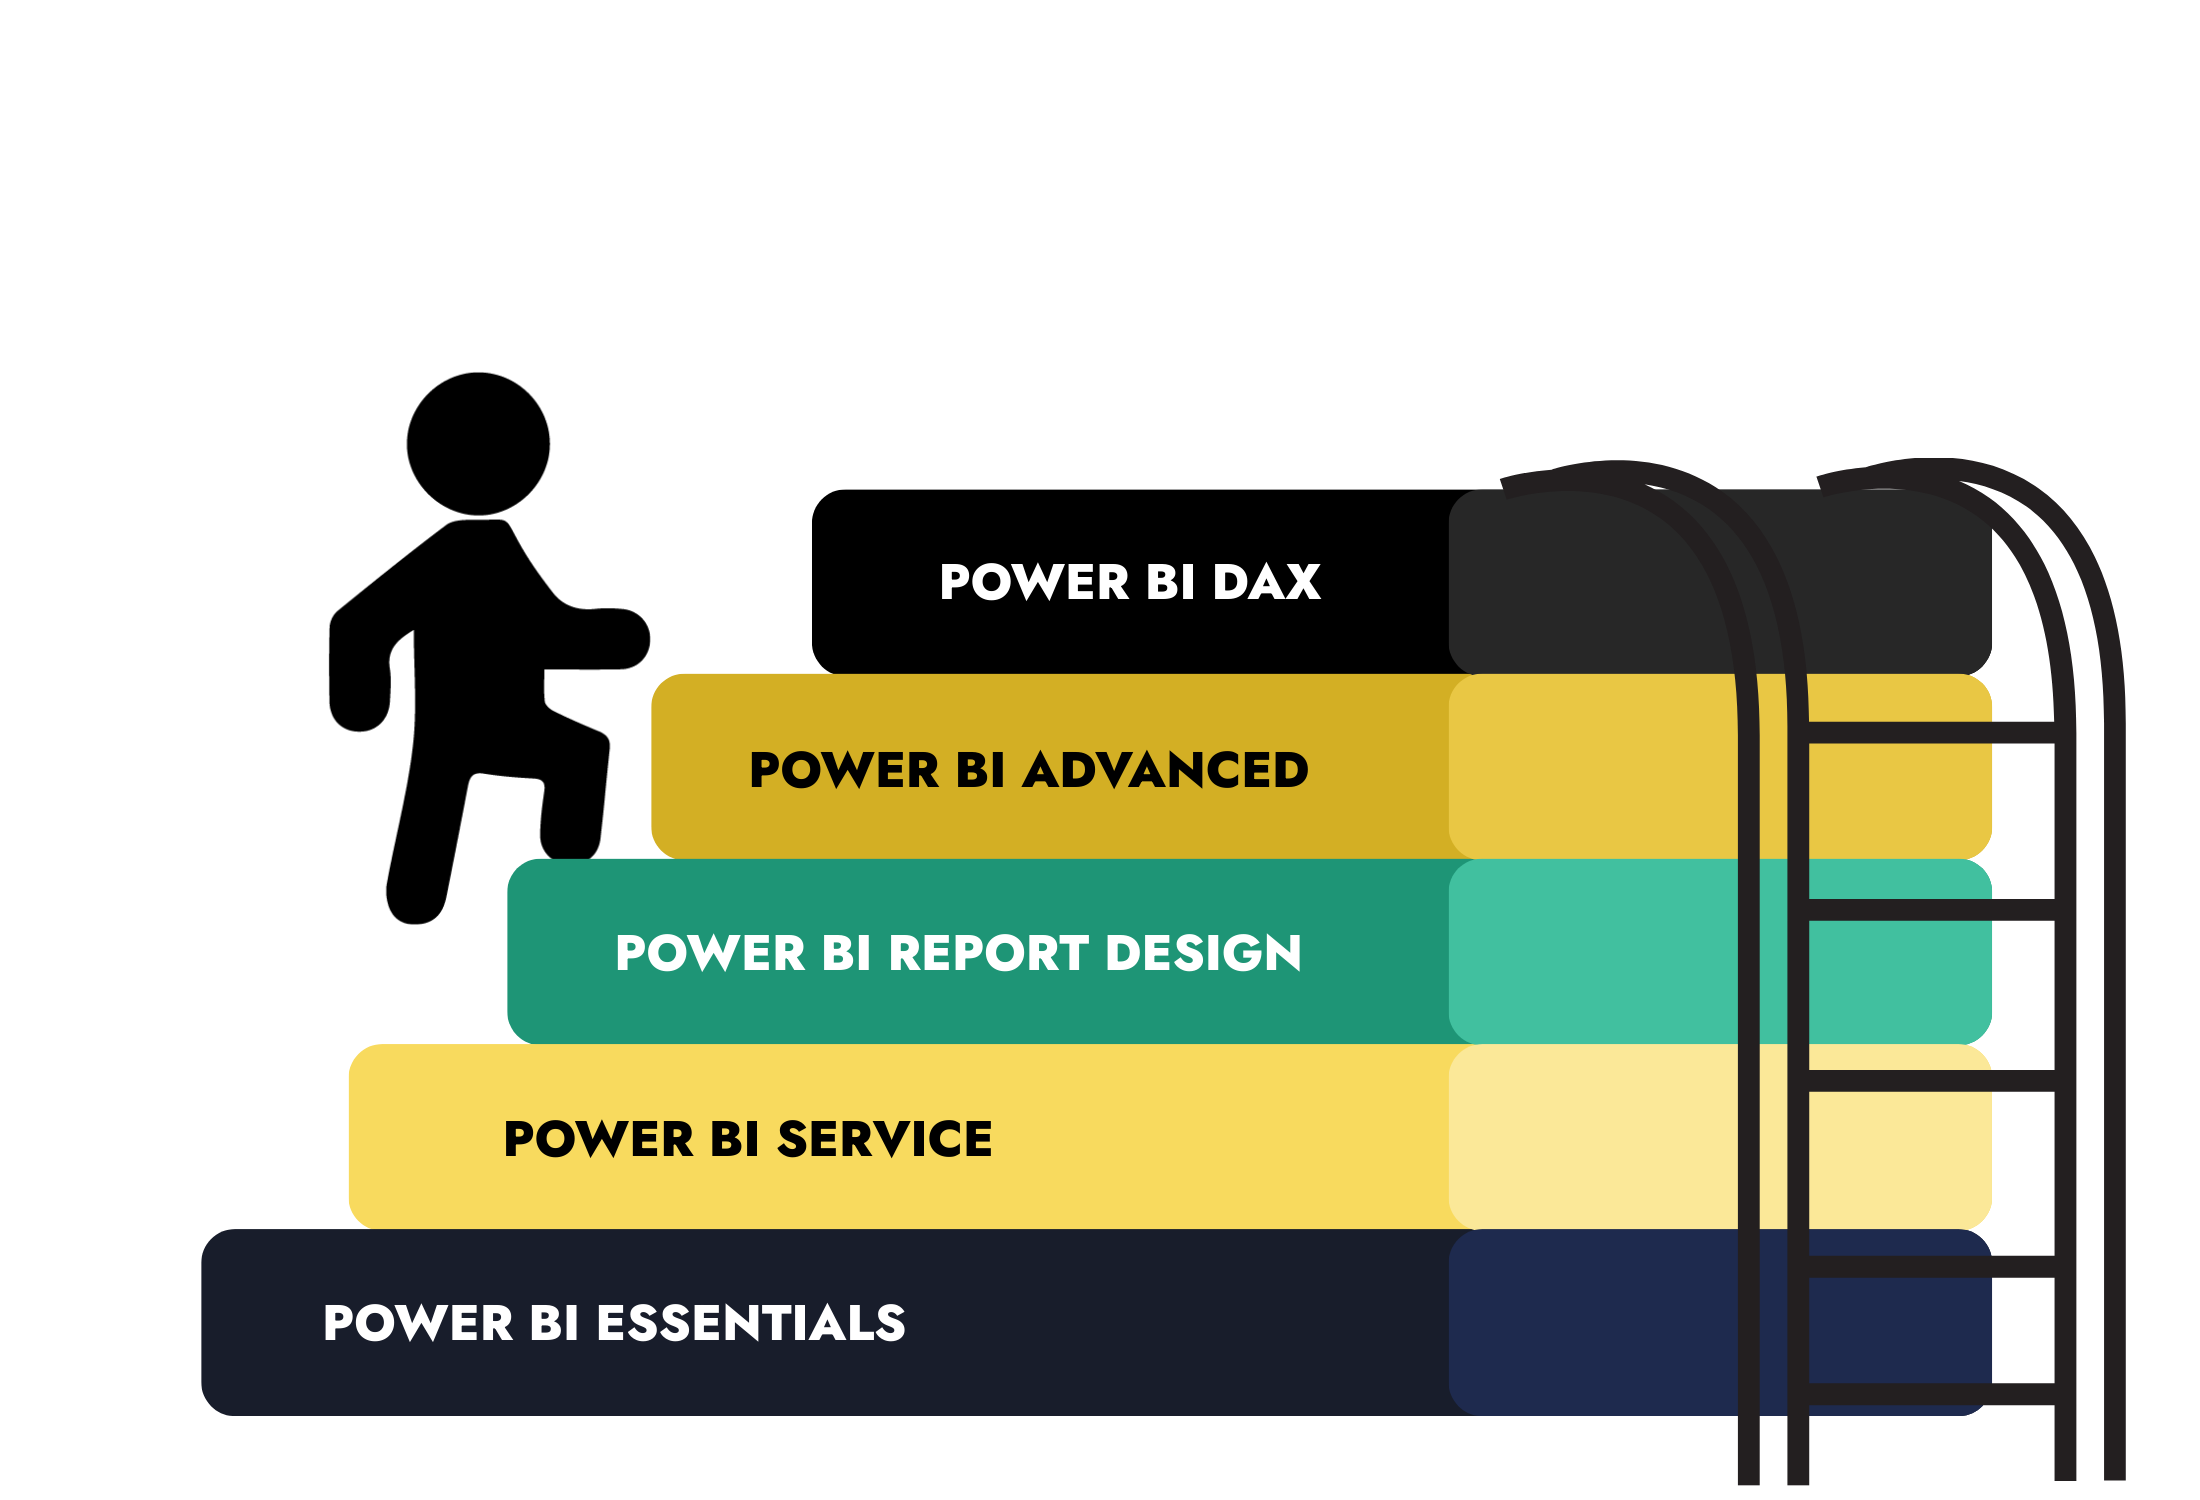
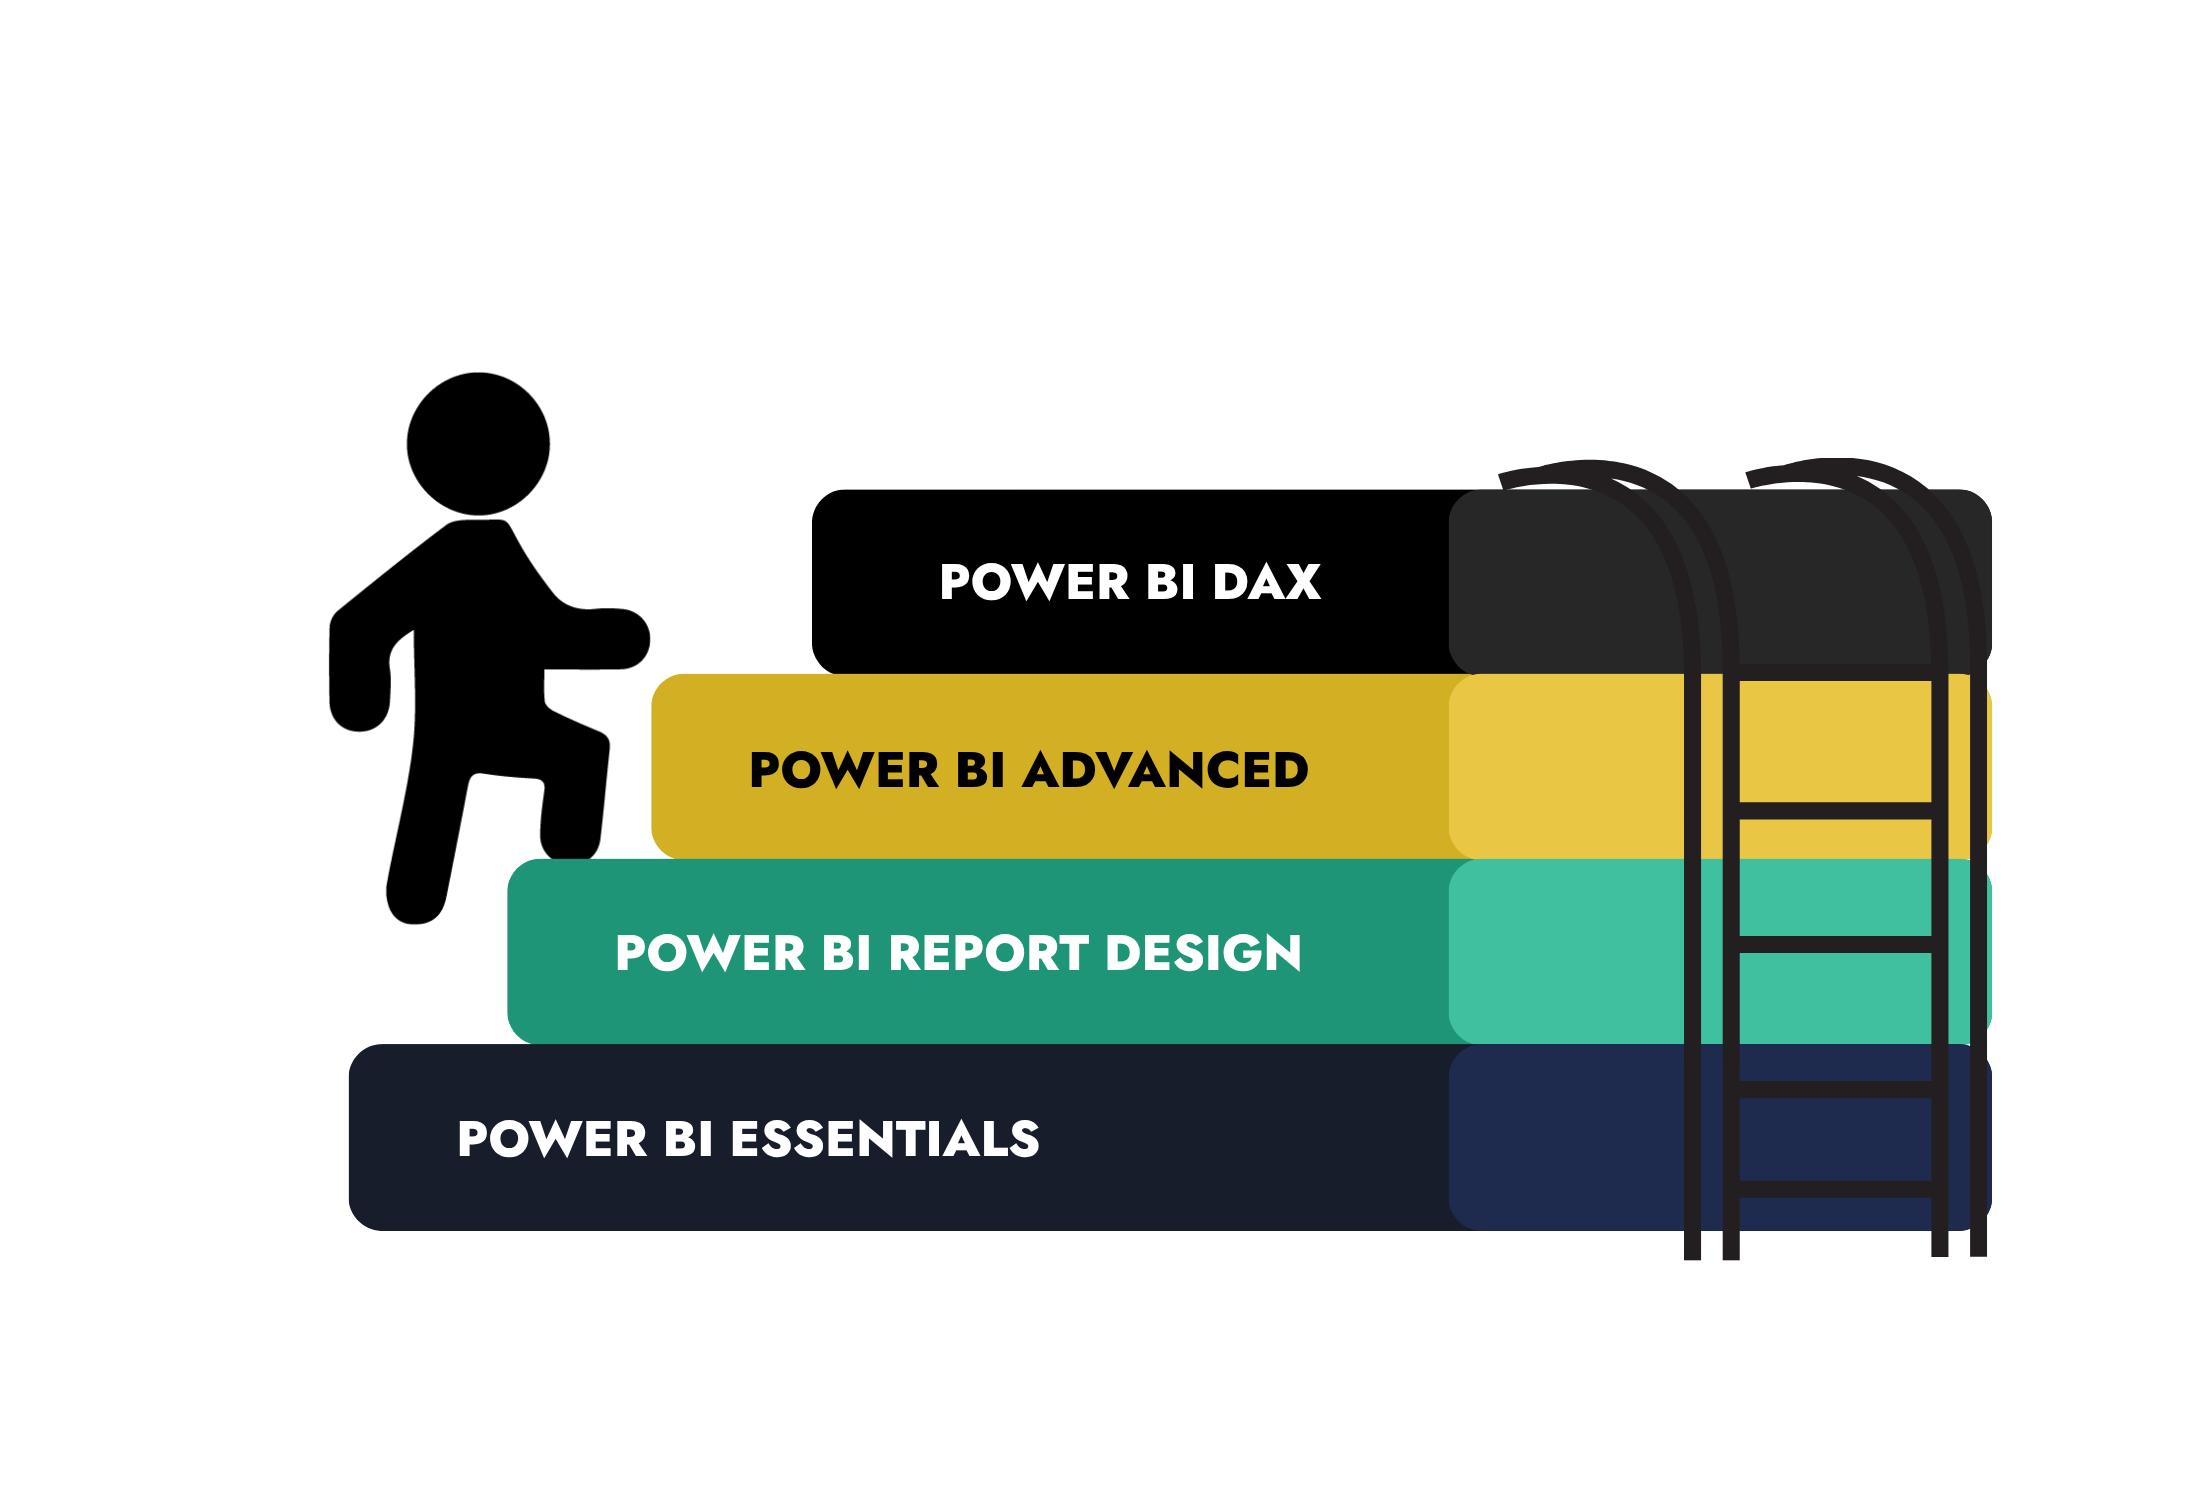
removed "Power BI Service"

Changed region(s): [[0.0927, 0.3067, 0.9891, 1.0]]

diff --git a/app/api/generate-message/route.ts b/app/api/generate-message/route.ts
@@ -19,12 +19,11 @@ export async function POST(request: Request) {
           role: "system",
           content: `You are a Power BI expert. The following courses are available:
           - Power BI Essentials
-          - Power BI Service
           - Power BI Report Design
           - Power BI Advanced
           - Power BI DAX Essentials
 
-          The user's current position will be shown on a visual ladder with 5 steps, each labeled with one of the above courses. The image highlights the user's recommended course as their current step, with higher steps representing more advanced expertise. The ladder visually shows progression from Essentials (bottom step 1) to DAX Essentials (top step 5).
+          The user's current position will be shown on a visual ladder with 4 steps, each labeled with one of the above courses. The image highlights the user's recommended course as their current step, with higher steps representing more advanced expertise. The ladder visually shows progression from Essentials (bottom step 1) to DAX Essentials (top step 4).
 
           Create a structured response in the following JSON format:
           {
@@ -41,10 +40,9 @@ export async function POST(request: Request) {
           
           Base this on their quiz score of ${score}, the recommended course as per the following mapping:
           - First Step - Power BI Essentials: if score is < 85
-          - Second Step - Power BI Service: if score is >= 85 and < 120
-          - Third Step - Power BI Report Design: if score is >= 120 and < 150
-          - Fourth Step - Power BI Advanced: if score is >= 150 and < 180
-          - Fifth Step - Power BI DAX Essentials: if score is >= 180`,
+          - Second Step - Power BI Report Design: if score is >= 85 and < 120
+          - Third Step - Power BI Advanced: if score is >= 120 and < 150
+          - Fourth Step - Power BI DAX Essentials: if score is >= 150`,
         },
         {
           role: "user",

diff --git a/components/Quiz.tsx b/components/Quiz.tsx
@@ -74,30 +74,25 @@ const Quiz: React.FC = () => {
   ) => {
     const combinedOptions = [...allSelectedOptions, ...selectedOptions]; // Determine recommended course based on score
     let course = { name: "", url: "" };
-    if (totalScore >= 180) {
+    if (totalScore >= 150) {
       course = {
         name: "Power BI DAX Essentials",
-        url: "https://powerbitraining.com.au/power-bi-basic-training-course/",
-      };
-    } else if (totalScore >= 150) {
-      course = {
-        name: "Power BI Advanced",
-        url: "https://powerbitraining.com.au/power-bi-service-course/",
+        url: "https://powerbitraining.com.au/dax-course/",
       };
     } else if (totalScore >= 120) {
+      course = {
+        name: "Power BI Advanced",
+        url: "https://powerbitraining.com.au/power-bi-advanced-training-course/",
+      };
+    } else if (totalScore >= 85) {
       course = {
         name: "Power BI Report Design",
         url: "https://powerbitraining.com.au/power-bi-report-design-course/",
       };
-    } else if (totalScore >= 85) {
-      course = {
-        name: "Power BI Service",
-        url: "https://powerbitraining.com.au/power-bi-advanced-training-course/",
-      };
     } else {
       course = {
         name: "Power BI Essentials",
-        url: "https://powerbitraining.com.au/dax-course/",
+        url: "https://powerbitraining.com.au/power-bi-basic-training-course/",
       };
     }
 

diff --git a/components/LadderVisualization.tsx b/components/LadderVisualization.tsx
@@ -19,8 +19,7 @@ const LadderVisualization: React.FC<LadderVisualizationProps> = ({
 }) => {
   const getImageNumber = (course: string): string => {
     const courseMap: Record<string, string> = {
-      "Power BI Essentials": "5",
-      "Power BI Service": "4",
+      "Power BI Essentials": "4",
       "Power BI Report Design": "3",
       "Power BI Advanced": "2",
       "Power BI DAX Essentials": "1",
